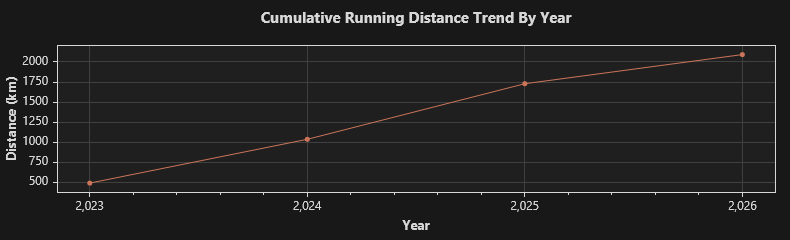
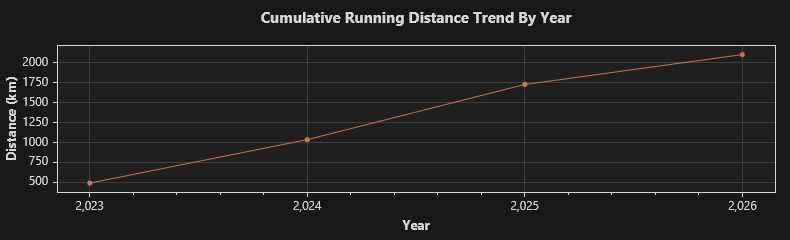
2026/7/20 跑步 6.14 公里

diff --git a/trend.md b/trend.md
@@ -1,4 +1,4 @@
-### Total: 356 days, 2091.72 km.
+### Total: 358 days, 2103.97 km.
 
 
 ![Monthly](https://github.com/prime167/MyRunningLog/blob/main/data/CumulativeTrendByMonth.png)